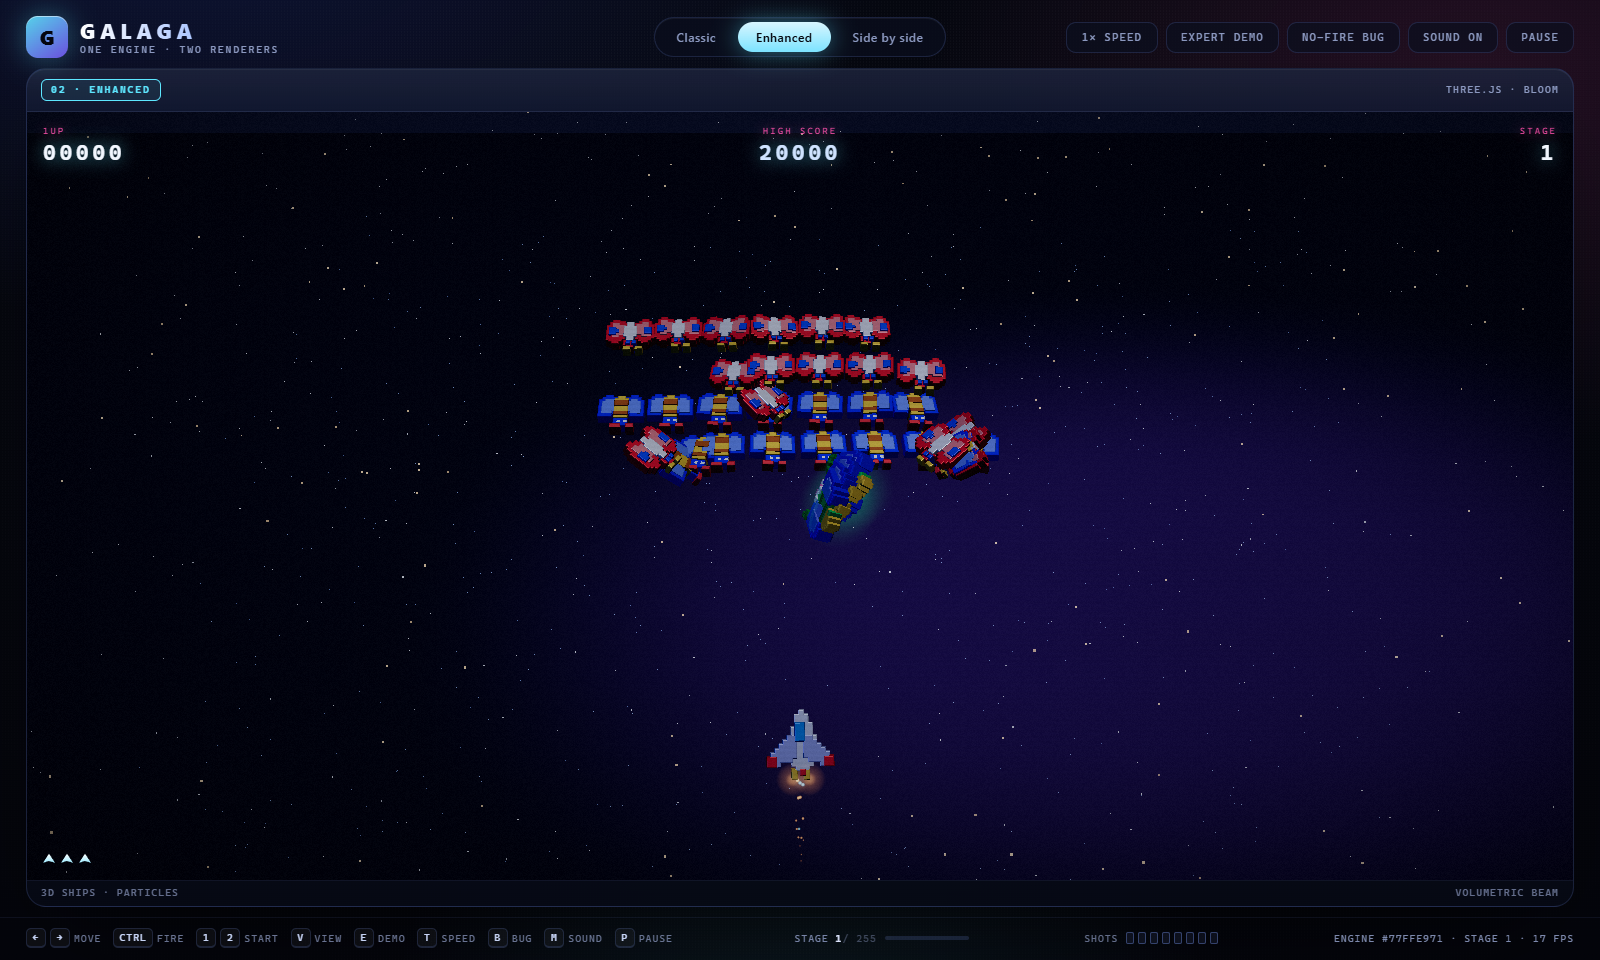
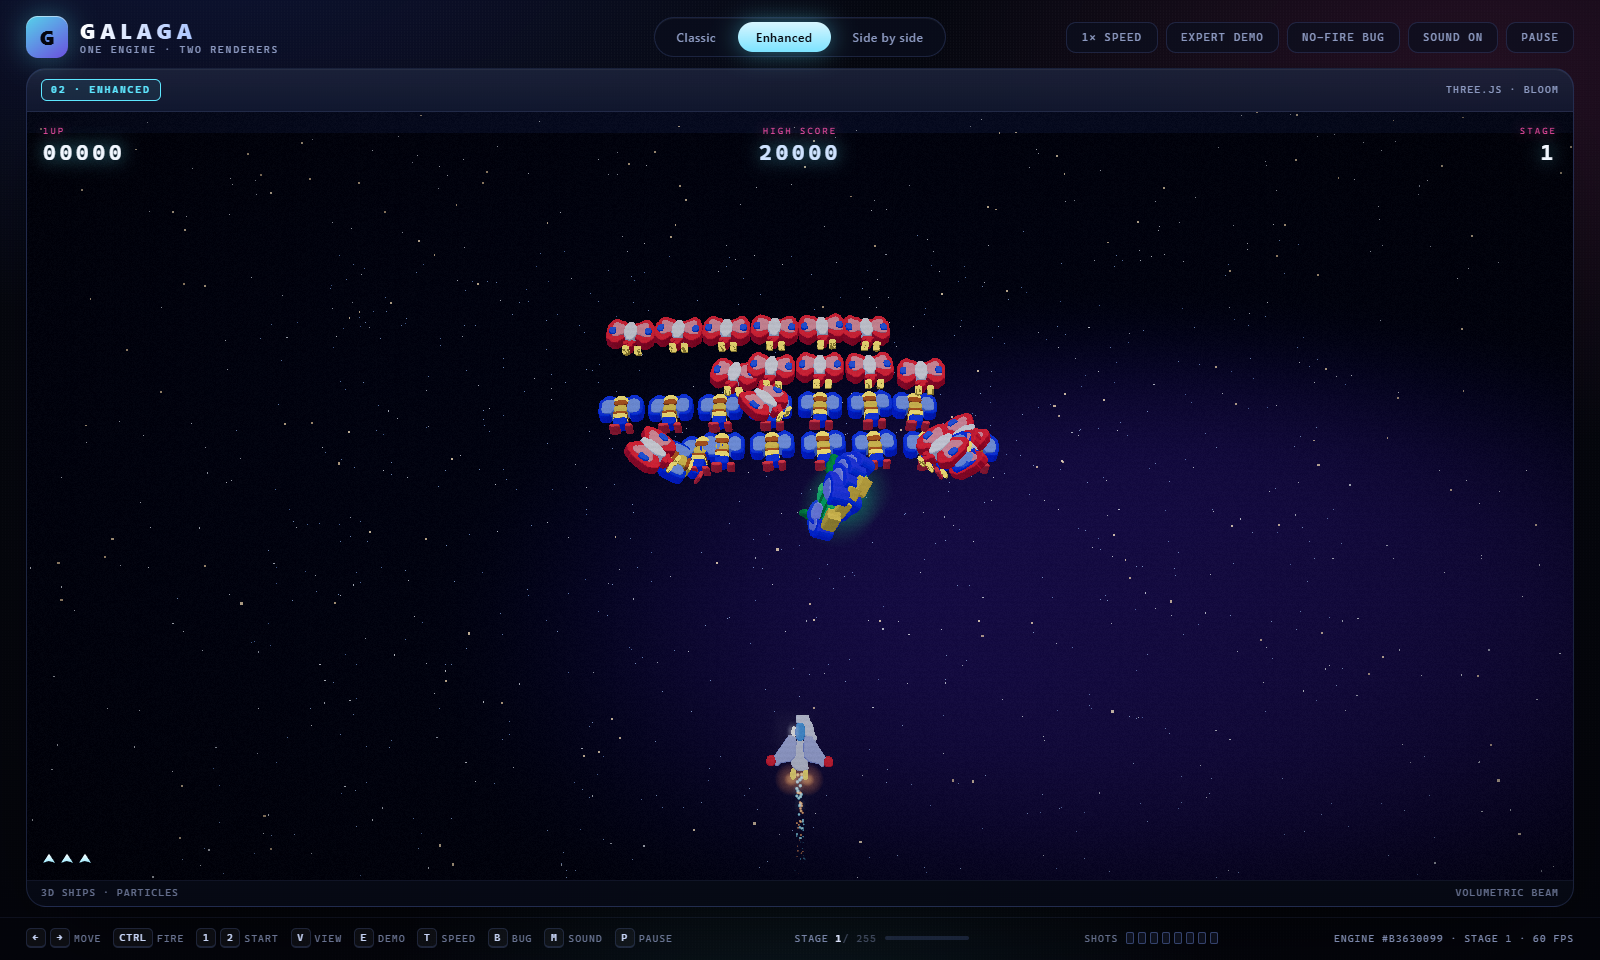
Smooth and brighten the 3D ships: supersampled contours, lambert palette, accent glow

Changed region(s): [[0.375, 0.3125, 0.625, 0.5625], [0.4688, 0.75, 0.5312, 0.8125]]

diff --git a/src/render/enhanced/shipGeometry.ts b/src/render/enhanced/shipGeometry.ts
@@ -1,11 +1,11 @@
 /**
  * 3D ship geometry generated from the classic pixel sprites.
  *
- * The enhanced view used to be built from generic primitives, which read as
- * abstract shapes rather than Galaga ships. This module traces the *actual*
- * sprite silhouettes -- one contour per palette colour -- and extrudes them into
- * a layered hull, so the 3D fleet is recognisably the same fleet as the arcade
- * view, only with depth, bevelled edges and metal.
+ * The silhouettes come from the sprites themselves, but they are supersampled
+ * and smoothed before extrusion: tracing the raw 16x16 grid gives stair-stepped
+ * edges that read as "granular" once the ships are on screen. Upsampling the
+ * mask, tracing at 4x and relaxing the contour keeps the original shapes
+ * (antennae, wing tips, cockpits) while giving smooth outlines.
  */
 
 import * as THREE from 'three';
@@ -13,10 +13,30 @@ import { spritePixels, type SpriteKey } from '../classic/sprites.js';
 
 const DEPTH_BASE = 2.6;
 const DEPTH_STEP = 0.5;
-const BEVEL = 0.38;
+const BEVEL = 0.42;
+
+/** Supersampling factor for contour extraction. */
+const SS = 4;
+/** Contour relaxation passes, in supersampled units. */
+const SMOOTH_PASSES = 3;
+const SMOOTH_STRENGTH = 0.45;
+
+/** Palette colours brighter than this get the unlit "glow" treatment. */
+const GLOW_LUMINANCE = 0.72;
+/** Only small bright regions glow -- eyes and wing spots, not a whole body. */
+const GLOW_MAX_AREA = 8;
+
+function luminance(cssColor: string): number {
+  const hex = cssColor.replace('#', '');
+  if (hex.length !== 6) return 0;
+  const r = parseInt(hex.slice(0, 2), 16) / 255;
+  const g = parseInt(hex.slice(2, 4), 16) / 255;
+  const b = parseInt(hex.slice(4, 6), 16) / 255;
+  return 0.2126 * r + 0.7152 * g + 0.0722 * b;
+}
 
 interface Loop {
-  /** Points in sprite grid space, y pointing down. */
+  /** Points in supersampled grid space, y pointing down. */
   points: Array<[number, number]>;
 }
 
@@ -70,18 +90,78 @@ function traceLoops(mask: Uint8Array, w: number, h: number): Loop[] {
   return loops;
 }
 
-/** Drop points that sit on a straight run. */
-function simplify(points: Array<[number, number]>): Array<[number, number]> {
-  if (points.length <= 3) return points;
+/** Drop points that sit within `tolerance` of the chord between their neighbours. */
+function simplify(points: Array<[number, number]>, tolerance = 0.35): Array<[number, number]> {
+  if (points.length <= 4) return points;
   const out: Array<[number, number]> = [];
   for (let i = 0; i < points.length; i++) {
     const prev = points[(i - 1 + points.length) % points.length];
     const cur = points[i];
     const next = points[(i + 1) % points.length];
-    const cross = (cur[0] - prev[0]) * (next[1] - cur[1]) - (cur[1] - prev[1]) * (next[0] - cur[0]);
-    if (cross !== 0) out.push(cur);
+    const cx = next[0] - prev[0];
+    const cy = next[1] - prev[1];
+    const len = Math.hypot(cx, cy) || 1;
+    const distance = Math.abs((cur[0] - prev[0]) * cy - (cur[1] - prev[1]) * cx) / len;
+    if (distance > tolerance) out.push(cur);
   }
-  return out.length >= 3 ? out : points;
+  return out.length >= 4 ? out : points;
+}
+
+/** Laplacian relaxation: rounds off the stair steps left by pixel contours. */
+function relax(
+  points: Array<[number, number]>,
+  passes: number,
+  strength: number,
+): Array<[number, number]> {
+  let current = points;
+  for (let pass = 0; pass < passes; pass++) {
+    const next: Array<[number, number]> = [];
+    for (let i = 0; i < current.length; i++) {
+      const prev = current[(i - 1 + current.length) % current.length];
+      const cur = current[i];
+      const then = current[(i + 1) % current.length];
+      next.push([
+        cur[0] + ((prev[0] + then[0]) / 2 - cur[0]) * strength,
+        cur[1] + ((prev[1] + then[1]) / 2 - cur[1]) * strength,
+      ]);
+    }
+    current = next;
+  }
+  return current;
+}
+
+/**
+ * Bilinear-supersample a binary mask. A 16x16 sprite becomes a 64x64 field, so
+ * the traced contour has quarter-pixel resolution and thin features (antennae,
+ * wing tips) survive the smoothing pass.
+ */
+function upsample(
+  mask: Uint8Array,
+  w: number,
+  h: number,
+): { data: Uint8Array; w: number; h: number } {
+  const width = w * SS;
+  const height = h * SS;
+  const data = new Uint8Array(width * height);
+  const at = (x: number, y: number) => (x < 0 || y < 0 || x >= w || y >= h ? 0 : mask[y * w + x]);
+
+  for (let y = 0; y < height; y++) {
+    for (let x = 0; x < width; x++) {
+      const fx = (x + 0.5) / SS - 0.5;
+      const fy = (y + 0.5) / SS - 0.5;
+      const x0 = Math.floor(fx);
+      const y0 = Math.floor(fy);
+      const tx = fx - x0;
+      const ty = fy - y0;
+      const value =
+        at(x0, y0) * (1 - tx) * (1 - ty) +
+        at(x0 + 1, y0) * tx * (1 - ty) +
+        at(x0, y0 + 1) * (1 - tx) * ty +
+        at(x0 + 1, y0 + 1) * tx * ty;
+      data[y * width + x] = value >= 0.5 ? 1 : 0;
+    }
+  }
+  return { data, w: width, h: height };
 }
 
 function signedArea(points: Array<[number, number]>): number {
@@ -145,18 +225,28 @@ function mergeGeometries(parts: THREE.BufferGeometry[]): THREE.BufferGeometry {
   return merged;
 }
 
-const cache = new Map<SpriteKey, THREE.BufferGeometry>();
+const cache = new Map<SpriteKey, ShipGeometry>();
+
+export interface ShipGeometry {
+  /** Lit, vertex-coloured hull. */
+  hull: THREE.BufferGeometry;
+  /** Bright palette regions, rendered unlit so they glow and bloom. */
+  glow: THREE.BufferGeometry | null;
+}
 
 /**
  * One hull per ship, coloured per palette entry and layered by colour so the
- * wings, body and canopy sit at different reliefs.
+ * wings, body and canopy sit at different reliefs. Bright palette entries are
+ * duplicated as an unlit shell so eyes, canopies and wing tips keep the punch
+ * they have in the arcade original.
  */
-export function shipHullGeometry(key: SpriteKey): THREE.BufferGeometry {
+export function shipGeometries(key: SpriteKey): ShipGeometry {
   const cached = cache.get(key);
   if (cached) return cached;
 
   const { width: w, height: h, data, palette } = spritePixels(key);
   const parts: THREE.BufferGeometry[] = [];
+  const glowParts: THREE.BufferGeometry[] = [];
   const isPlayer = key === 'player';
 
   for (let colour = 1; colour < palette.length; colour++) {
@@ -170,11 +260,16 @@ export function shipHullGeometry(key: SpriteKey): THREE.BufferGeometry {
     }
     if (!used) continue;
 
-    // Convert to shape space (y up), then classify loops by containment.
-    const loops = traceLoops(mask, w, h).map((loop) => {
-      const points = loop.points.map(([x, y]) => [x, h - y] as [number, number]);
-      return signedArea(points) < 0 ? points.reverse() : points;
-    });
+    // Supersample, trace and relax: smooth hull edges that still follow the
+    // original sprite, then convert back to sprite units with y pointing up.
+    const up = upsample(mask, w, h);
+    const loops = traceLoops(up.data, up.w, up.h)
+      .map((loop) => {
+        const smoothed = simplify(relax(loop.points, SMOOTH_PASSES, SMOOTH_STRENGTH), 0.22);
+        const points = smoothed.map(([x, y]) => [x / SS, (up.h - y) / SS] as [number, number]);
+        return signedArea(points) < 0 ? points.reverse() : points;
+      })
+      .filter((points) => points.length >= 3 && Math.abs(signedArea(points)) > 0.5);
     loops.sort((a, b) => Math.abs(signedArea(b)) - Math.abs(signedArea(a)));
 
     const outers: Array<{ points: Array<[number, number]>; area: number }> = [];
@@ -205,6 +300,12 @@ export function shipHullGeometry(key: SpriteKey): THREE.BufferGeometry {
       geometry.translate(0, 0, -depth / 2);
       paint(geometry, palette[colour]);
       parts.push(geometry);
+
+      if (luminance(palette[colour]) > GLOW_LUMINANCE && outer.area <= GLOW_MAX_AREA) {
+        const accent = geometry.clone();
+        accent.translate(0, 0, 0.3);
+        glowParts.push(accent);
+      }
     });
   }
 
@@ -213,7 +314,11 @@ export function shipHullGeometry(key: SpriteKey): THREE.BufferGeometry {
   merged.computeVertexNormals();
   if (isPlayer) merged.computeBoundingSphere();
 
-  cache.set(key, merged);
-  return merged;
+  const glow = glowParts.length > 0 ? mergeGeometries(glowParts) : null;
+  if (glow) glow.translate(-w / 2, -h / 2, 0);
+
+  const result: ShipGeometry = { hull: merged, glow };
+  cache.set(key, result);
+  return result;
 }
 

diff --git a/src/render/enhanced/visuals.ts b/src/render/enhanced/visuals.ts
@@ -7,7 +7,7 @@
 
 import * as THREE from 'three';
 
-import { shipHullGeometry } from './shipGeometry.js';
+import { shipGeometries } from './shipGeometry.js';
 
 // ---------------------------------------------------------------- textures --
 
@@ -72,26 +72,42 @@ export const PALETTES: Record<'bee' | 'butterfly' | 'boss' | 'player', ShipPalet
  * arrow fighter. Metal, bevelled edges and an additive rim shell are the modern
  * part.
  */
-let hullMaterialRef: THREE.MeshStandardMaterial | null = null;
+let hullMaterialRef: THREE.MeshLambertMaterial | null = null;
 
-function hullMaterial(): THREE.MeshStandardMaterial {
+function hullMaterial(): THREE.MeshLambertMaterial {
   if (hullMaterialRef) return hullMaterialRef;
-  hullMaterialRef = new THREE.MeshStandardMaterial({
+  // Lambert rather than a metal: the arcade palette is bright and flat, and a
+  // metallic surface muddies it into grey. A touch of emissive keeps the hulls
+  // from going black on faces turned away from the key light.
+  hullMaterialRef = new THREE.MeshLambertMaterial({
     vertexColors: true,
-    metalness: 0.38,
-    roughness: 0.46,
-    emissive: new THREE.Color(0x0b1024),
-    emissiveIntensity: 0.12,
+    emissive: new THREE.Color(0x141d33),
+    emissiveIntensity: 0.55,
   });
   return hullMaterialRef;
+}
+
+let glowMaterialRef: THREE.MeshBasicMaterial | null = null;
+
+function glowMaterial(): THREE.MeshBasicMaterial {
+  if (glowMaterialRef) return glowMaterialRef;
+  // Unlit and slightly over-bright: the eyes, canopy and wing tips keep the
+  // punch they have in the sprite and pick up the bloom.
+  glowMaterialRef = new THREE.MeshBasicMaterial({
+    vertexColors: true,
+    color: new THREE.Color(1.35, 1.35, 1.35),
+  });
+  return glowMaterialRef;
 }
 
 export type ShipKey = 'bee' | 'butterfly' | 'boss' | 'player';
 
 export function createShip(key: ShipKey): THREE.Group {
   const group = new THREE.Group();
-  const hull = new THREE.Mesh(shipHullGeometry(key), hullMaterial());
-  group.add(hull);
+  const { hull, glow } = shipGeometries(key);
+
+  group.add(new THREE.Mesh(hull, hullMaterial()));
+  if (glow) group.add(new THREE.Mesh(glow, glowMaterial()));
 
   if (key === 'player') {
     // Twin engine flares under the tail.

diff --git a/src/render/enhanced/enhancedRenderer.ts b/src/render/enhanced/enhancedRenderer.ts
@@ -257,9 +257,9 @@ export class EnhancedRenderer implements GameRenderer {
   }
 
   private addLights(scene: THREE.Scene): void {
-    scene.add(new THREE.AmbientLight(0x2a3866, 0.85));
+    scene.add(new THREE.AmbientLight(0xc8d6ff, 1.25));
 
-    const key = new THREE.DirectionalLight(0xdfe9ff, 1.7);
+    const key = new THREE.DirectionalLight(0xffffff, 1.35);
     key.position.set(60, 160, 260);
     scene.add(key);
 
@@ -875,5 +875,6 @@ export class EnhancedRenderer implements GameRenderer {
 }
 
 export { PALETTES };
+
 
 

diff --git a/README.md b/README.md
@@ -21,7 +21,7 @@ Three view modes, switchable at any time without interrupting play:
 | Mode | What you see |
 | --- | --- |
 | **Classic** | A 224×288 arcade framebuffer: hand-authored pixel sprites, bitmap font, CRT scanlines, starfield. |
-| **Enhanced** | The same coordinates rendered as a lit Three.js scene: hulls extruded from the very pixel sprites the classic view draws, with a baked environment map, engine trails, volumetric tractor beam, GPU particles, bloom, shockwaves, camera parallax and shake. |
+| **Enhanced** | The same coordinates rendered as a lit Three.js scene: hulls built from the very pixel sprites the classic view draws — supersampled, smoothed into rounded edges and extruded per palette colour, with bright accents on eyes, canopies and wing tips, plus a baked environment map, engine trails, volumetric tractor beam, GPU particles, bloom, shockwaves, camera parallax and shake. |
 | **Side by side** | Both at once, sharing one engine instance. |
 
 ![Enhanced](docs/media/enhanced.png)
